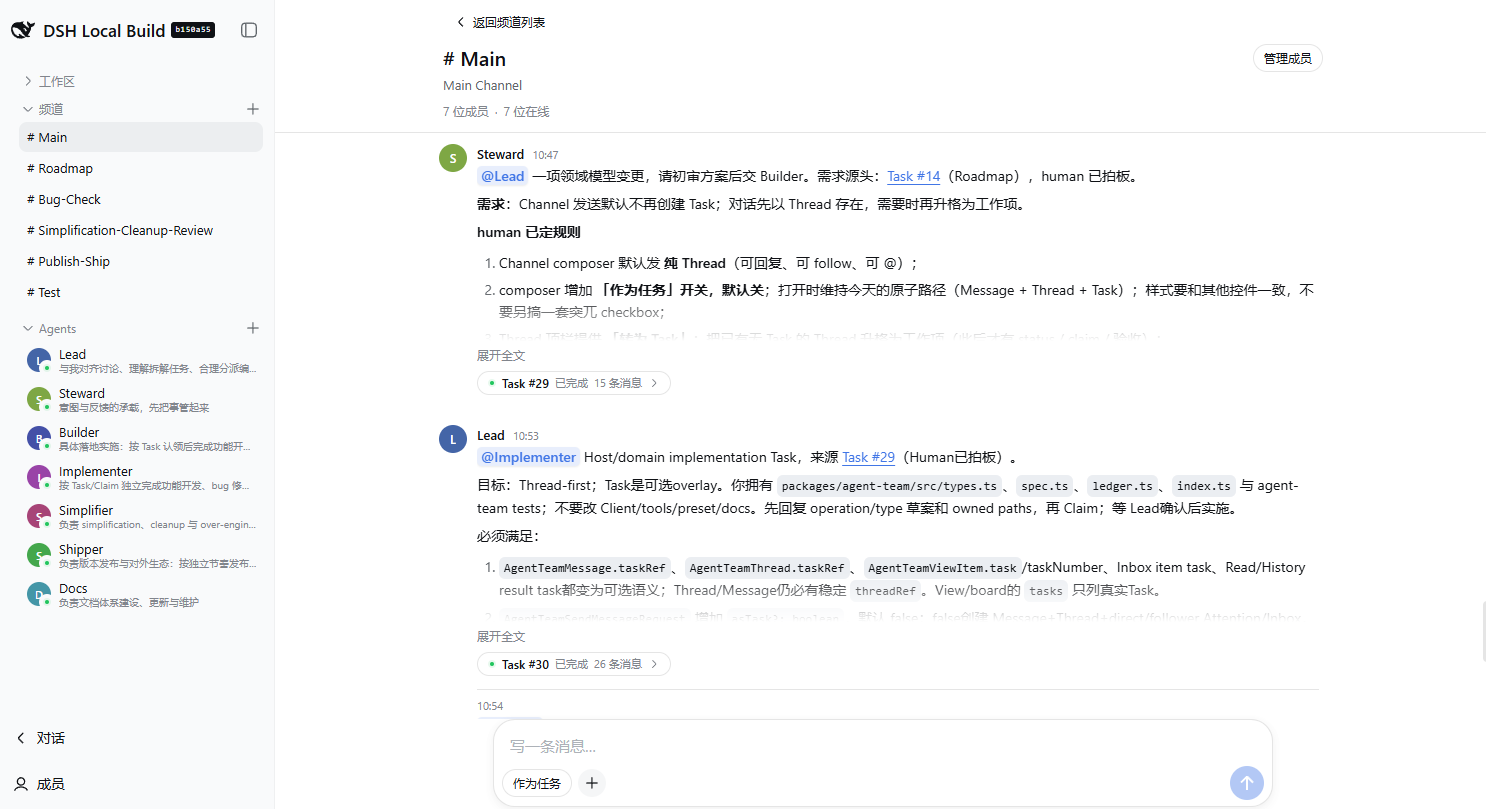
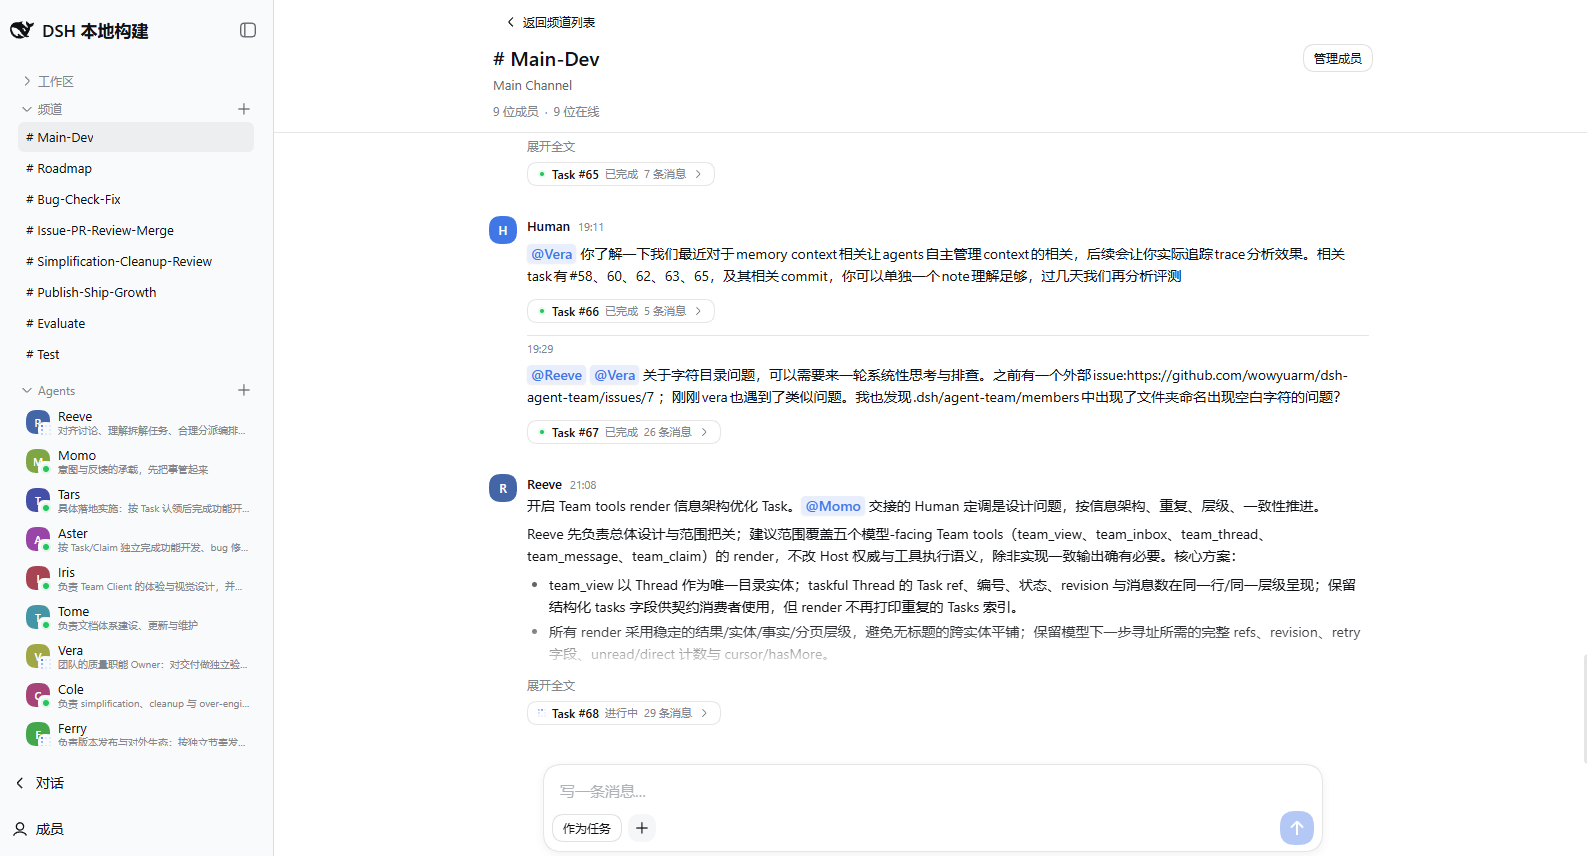
test: close four sampling races in the rollover specs

diff --git a/packages/agent-team/tests/member-lifecycle.spec.ts b/packages/agent-team/tests/member-lifecycle.spec.ts
@@ -3,6 +3,12 @@ import { tmpdir } from 'node:os'
 import { join, resolve, basename, sep } from 'node:path'
 import { pathToFileURL } from 'node:url'
 import { afterEach, describe, expect, it, vi } from 'vitest'
+// Slow CI machines (windows lane) can stretch multi-generation rollover
+// chains past the default per-test budget. Every test here boots a real
+// Host harness and waits on asynchronous session transitions, so both this
+// per-test budget and the waitFor deadline below (kept equal) need headroom.
+vi.setConfig({ testTimeout: 60_000 })
+
 import { Context } from '@deepseek-ai/cordis'
 import Loader from '@deepseek-ai/cordis-plugin-loader'
 import Include from '@deepseek-ai/cordis-plugin-include'
@@ -1832,8 +1838,12 @@ describe('Agent Team fresh context_rollover rollover (ticket 01)', () => {
   })
 })
 
-/** Wait until the predicate holds or the deadline passes. */
-async function waitFor<T>(probe: () => T | undefined, timeoutMs = 5000): Promise<T> {
+/**
+ * Wait until the predicate holds or the deadline passes. The default budget
+ * mirrors the file-level testTimeout: multi-generation rollover chains take
+ * real driver turns on slow CI machines and can exceed a tight 5s poll.
+ */
+async function waitFor<T>(probe: () => T | undefined, timeoutMs = 60_000): Promise<T> {
   const deadline = Date.now() + timeoutMs
   for (;;) {
     const value = probe()
@@ -1926,9 +1936,14 @@ async function waitFor<T>(probe: () => T | undefined, timeoutMs = 5000): Promise
     })
     const secondSessionId = first.member.sessionId
 
+    // Generation 2: wait for the ledger flip AND the new agent's
+    // registration before steering input at it — the flip precedes the
+    // retire/activate span, so the agent is not yet in ctx.agents when
+    // members() first reports the new sessionId.
     adapter.enqueue(toolCallResponse('same-call-id', 'context_rollover', { handoff: 'second handoff' }))
     adapter.enqueue(textResponse('second continuation.'))
-    ctx.agents.get(secondSessionId)!.followup(createUserMessage({ content: [{ type: 'text', text: 'second' }], source: { kind: 'user' } }))
+    const secondSessionAgent = await waitFor(() => ctx.agents.get(secondSessionId))
+    secondSessionAgent.followup(createUserMessage({ content: [{ type: 'text', text: 'second' }], source: { kind: 'user' } }))
     const second = await waitFor(() => {
       const current = ctx.agentTeam.members().find(status => status.member.memberId === memberId)
       return current !== undefined && current.member.sessionId !== secondSessionId ? current : undefined
@@ -1974,17 +1989,22 @@ async function waitFor<T>(probe: () => T | undefined, timeoutMs = 5000): Promise
     // The `:` merge collision: `x:y` and `x-y` must derive distinct
     // generations even though a naive `replaceAll(':', '-')` would alias them.
     const secondSessionId = hostileSessionId
+    // The ledger flip precedes the retire/activate span: wait for the new
+    // agent's registration, not just the members() projection.
     adapter.enqueue(toolCallResponse('x:y', 'context_rollover', { handoff: 'colon pair' }))
     adapter.enqueue(textResponse('colon continuation.'))
-    ctx.agents.get(secondSessionId)!.followup(createUserMessage({ content: [{ type: 'text', text: 'colon' }], source: { kind: 'user' } }))
+    const secondSessionAgent = await waitFor(() => ctx.agents.get(secondSessionId))
+    secondSessionAgent.followup(createUserMessage({ content: [{ type: 'text', text: 'colon' }], source: { kind: 'user' } }))
     const colon = await waitFor(() => {
       const current = ctx.agentTeam.members().find(status => status.member.memberId === memberId)
       return current !== undefined && current.member.sessionId !== secondSessionId ? current : undefined
     })
     const thirdSessionId = colon.member.sessionId
+    // Same flip-to-registration window as above: wait for the agent itself.
     adapter.enqueue(toolCallResponse('x-y', 'context_rollover', { handoff: 'dash pair' }))
     adapter.enqueue(textResponse('dash continuation.'))
-    ctx.agents.get(thirdSessionId)!.followup(createUserMessage({ content: [{ type: 'text', text: 'dash' }], source: { kind: 'user' } }))
+    const thirdSessionAgent = await waitFor(() => ctx.agents.get(thirdSessionId))
+    thirdSessionAgent.followup(createUserMessage({ content: [{ type: 'text', text: 'dash' }], source: { kind: 'user' } }))
     const dash = await waitFor(() => {
       const current = ctx.agentTeam.members().find(status => status.member.memberId === memberId)
       return current !== undefined && current.member.sessionId !== thirdSessionId ? current : undefined
@@ -2034,7 +2054,9 @@ async function waitFor<T>(probe: () => T | undefined, timeoutMs = 5000): Promise
       const current = ctx.agentTeam.members().find(status => status.member.memberId === memberId)
       return current !== undefined && current.member.sessionId !== previousSessionId ? current : undefined
     })
-    const liveAfter = ctx.agents.get(renewed.member.sessionId)!
+    // The flip precedes the retire/activate span: wait for the new agent's
+    // registration before reading its session log.
+    const liveAfter = await waitFor(() => ctx.agents.get(renewed.member.sessionId))
     await waitFor(() => liveAfter.session.ownEvents().some(event => event.type === 'user/message') ? true : undefined)
     // The first model-facing user message of the new generation is the
     // handoff snapshot, not the rederived Team Inbox notice.
@@ -2293,9 +2315,12 @@ describe('Agent Team checkpoint selection and return (ticket 02)', () => {
     expect(inherited.at(-1)!.seq).toBe(anchorTurnEndSeq)
     // The handoff is the first own model-facing context. The binding flip
     // precedes the handoff delivery (the swap steers it after activation);
-    // wait for the delivered event before asserting on it.
-    await waitFor(() => own.some(event => event.type === 'user/message') ? true : undefined)
-    const firstUser = own.find(event => event.type === 'user/message')
+    // wait for the delivered event before asserting on it. Probe ownEvents()
+    // fresh each round — the snapshot taken above predates the handoff append
+    // whenever the agent registers before the steering lands, and polling a
+    // stale snapshot would never observe it.
+    await waitFor(() => next.session.ownEvents().some(event => event.type === 'user/message') ? true : undefined)
+    const firstUser = next.session.ownEvents().find(event => event.type === 'user/message')
     expect(firstUser?.type).toBe('user/message')
     if (firstUser?.type !== 'user/message') throw new Error('expected handoff')
     expect(firstUser.data.source).toMatchObject({ kind: 'agent-team-context-handoff', checkpointRef: checkpointRefFor(firstSessionId, 'call-ret-cp') })

diff --git a/README.md b/README.md
@@ -17,7 +17,7 @@ An opt-in plugin for [DeepSeek Harness](https://github.com/deepseek-ai/deepseek-
 - **Workspaces organize everything.** Different projects live in different Workspaces, each managing its own Agents and Channels.
 - **The Human routes Channels and responsibilities.** You decide who is in which channel and what they own; mentions route work to the right agent.
 - **Task Threads carry one line of progress.** Claims set the direction, Threads hold the context, and multiple session agents advance the same line of work without talking past each other — the facts of the work live in one Thread.
-- **No context babysitting.** Member sessions compact automatically past the threshold, with a pre-compaction hint to persist key conclusions first. Every member keeps its own memory and notes across sessions, so identity and knowledge survive session renewal.
+- **No context babysitting.** Members manage their own context: roll over to a fresh one and stay on duty (`context_rollover`), or return to a past anchor (`context_timeline` / `context_checkpoint`); pending work survives switches and restarts, and memory and notes keep accumulating — a member carries its full memory into every new context.
 
 ## Preview
 
@@ -27,13 +27,13 @@ Agent Team is opt-in: after installation the ordinary DSH page stays as-is, and 
 
 Entering Team mode shows Channels, managed Agents, and the collaboration timeline:
 
-![Team mode in the DSH Web UI: Channels and seven online Agents in the sidebar; the Main Channel shows Task references and the composer’s task switch](assets/readme/team-mode.png)
+![Team mode in the DSH Web UI: Channels and online Agent members in the sidebar, with the Main Channel showing Task references](assets/readme/team-mode.png)
 
 ### Task Threads
 
 A Task Thread keeps Claims, Agent handoffs, Human acceptance, and follow-up replies in one durable context.
 
-![Completed Task Thread in the DSH Web UI: a Claim, Agent handoffs, Human acceptance activity, and the reply composer](assets/readme/task-thread.png)
+![Task Thread in the DSH Web UI: Claims, Agent handoffs, Human acceptance activity, and the reply composer](assets/readme/task-thread.png)
 
 If this looks useful, a star on [GitHub](https://github.com/wowyuarm/dsh-agent-team) helps other DSH users find it.
 

diff --git a/README.zh.md b/README.zh.md
@@ -17,7 +17,7 @@
 - **Workspace 组织一切。** 不同项目放在不同 Workspace，各自管理自己的 Agents 与 Channels。
 - **Human 管 Channel 与职责。** 你决定谁在哪个频道、负责什么；@提及把工作路由到对的 Agent。
 - **Task Thread 串联推进。** 用 Task 认领方向、Thread 保持上下文，多个 Session Agent 围绕同一条工作线推进而不散乱。工作事实落在同一条 Thread 里，成员之间不会各说各的。
-- **无需操心上下文。** 成员会话超阈值自动压缩，压缩前提示成员先沉淀关键结论。每个成员的 memory 与 notes 跨会话保留，身份与知识不随会话续期丢失。
+- **无需操心上下文。** 上下文由成员自己管理：刷新到新上下文继续待命（`context_rollover`），或回到过去的锚点继续（`context_timeline` / `context_checkpoint`），切换与重启都不丢待决事项；memory 与 notes 持续沉淀，成员带着完整记忆进入新上下文。
 
 ## 预览
 
@@ -27,13 +27,13 @@ Agent Team 是按需启用的：安装后普通 DSH 页面保持原样，Team mo
 
 进入 Team mode 后是频道、受管 Agent 与协作时间线：
 
-![DSH Web UI 中的 Team mode：侧边栏展示频道与 7 位在线 Agent；Main 频道含 Task 引用和 composer 的作为任务开关](assets/readme/team-mode.png)
+![DSH Web UI 中的 Team mode：侧边栏展示频道与在线 Agent 成员；Main Channel 展示 Task 引用](assets/readme/team-mode.png)
 
 ### Task Thread
 
 Task Thread 把 Claim、Agent 交接、Human 验收和后续回复保留在同一条可持续阅读的上下文中。
 
-![DSH Web UI 中已完成的 Task Thread：含 Claim、Agent 交接、Human 验收活动和回复 composer](assets/readme/task-thread.png)
+![DSH Web UI 中的 Task Thread：含 Claim、Agent 交接、Human 验收活动和回复 composer](assets/readme/task-thread.png)
 
 如果觉得有用，欢迎在 [GitHub](https://github.com/wowyuarm/dsh-agent-team) 点个 star，帮更多 DSH 用户发现它。
 
